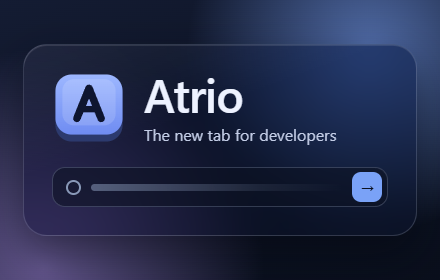
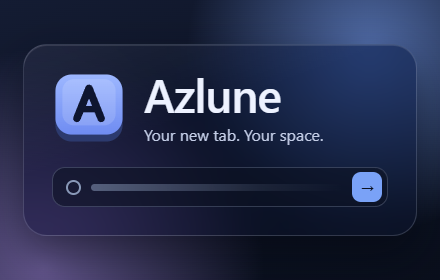
chore(store): update the Azlune listing and promotional assets
Store guide: the item is "Azlune — Developer New Tab" (the manifest's
name), with the new summaries (126 characters each), detailed
descriptions in English and Italian opening with the tagline, the
single purpose and data usage texts under the new name, and the
package azlune-3.3.0.zip. The name section now records the search for
Azlune of 29 October 2026 (no AZLUNE mark nor any on its roots in
TMview, no Store extension or web use, domains without DNS records),
asks for a professional check, and says why Atrio was dropped. A new
last section lists what to update once the GitHub repository is
renamed; until then every link keeps the current address.

Promo tile: "Azlune" with "Your new tab. Your space.", same keycap logo
and colors, rendered again at 440 x 280 (24-bit PNG). The five
screenshots show no product name and stay as they are.

Changed region(s): [[0.3841, 0.2571, 0.65, 0.4286], [0.325, 0.4571, 0.7682, 0.5143]]

diff --git a/scripts/promo-tile.html b/scripts/promo-tile.html
@@ -1,11 +1,11 @@
 <!doctype html>
 <!-- The Chrome Web Store's small promo tile, 440 × 280: npm run screenshots -- --store renders it into
-     docs/store/<version>/. Only Atrio's own icon, name and colors (the Tokyo Night theme), nothing of third
+     docs/store/<version>/. Only Azlune's own icon, name and colors (the Tokyo Night theme), nothing of third
      parties. -->
 <html lang="en">
   <head>
     <meta charset="utf-8" />
-    <title>Atrio promo tile</title>
+    <title>Azlune promo tile</title>
     <style>
       html,
       body {
@@ -104,8 +104,8 @@
       <div class="brand">
         <img src="../assets/icons/icon.svg" alt="" />
         <div>
-          <h1>Atrio</h1>
-          <p>The new tab for developers</p>
+          <h1>Azlune</h1>
+          <p>Your new tab. Your space.</p>
         </div>
       </div>
       <div class="search" aria-hidden="true">

diff --git a/docs/CHROME_WEB_STORE_LISTING.md b/docs/CHROME_WEB_STORE_LISTING.md
@@ -1,14 +1,14 @@
 # Chrome Web Store submission
 
-What to upload and what to fill in the Developer Dashboard for Atrio 3.3.0. Texts in quotes are ready to paste. Items
-marked **Decide** or **Check** cannot be settled from the code and are the maintainer's call; the
-[checklist](#dashboard-checklist) at the end lists them in order.
+What to upload and what to fill in the Developer Dashboard for Azlune 3.3.0, the first version under that name (it was
+called Atrio before). Texts in quotes are ready to paste. Items marked **Decide** or **Check** cannot be settled from
+the code and are the maintainer's call; the [checklist](#dashboard-checklist) at the end lists them in order.
 
 ## Package
 
 - Version `3.3.0` (`manifest.json`, `package.json`). It must be higher than any version already uploaded to the item:
   **Check** the Dashboard's package history (3.2.0 may or may not have been uploaded; this repository cannot tell).
-- Build it with `npm run package`. It writes `atrio-3.3.0.zip` at the root of the repository (`*.zip` is ignored by
+- Build it with `npm run package`. It writes `azlune-3.3.0.zip` at the root of the repository (`*.zip` is ignored by
   git), then reads it back, extracts it to a new temporary folder and checks it:
   - only the runtime files: `manifest.json`, `index.html`, `style.css`, `background.js`, `LICENSE`, `js/`, `assets/`
     (the six wallpapers and the icons) and `_locales/`, with `manifest.json` at the root of the ZIP;
@@ -26,12 +26,13 @@ marked **Decide** or **Check** cannot be settled from the code and are the maint
 
 ## Store listing
 
-- **Name:** Atrio (from the manifest).
+- **Name:** "Azlune — Developer New Tab", from the manifest (26 characters; `short_name` "Azlune" where space is
+  short).
 - **Summary:** the localized `appDescription` in `_locales/` (limit 132 characters):
-  - English (129): "A keyboard-first new tab for developers: smart search, quick links, focus timer and tasks. Local data, opt-in
-    online suggestions."
-  - Italian (131): "Nuova scheda per developer: ricerca intelligente, collegamenti, timer focus e attività. Dati locali,
-    suggerimenti online opzionali."
+  - English (126): "A keyboard-first new tab for developers: smart search, links, local dev tools, focus timer,
+    themes. Opt-in online suggestions."
+  - Italian (126): "Nuova scheda per developer: ricerca intelligente, collegamenti, strumenti locali, timer e temi.
+    Suggerimenti online opzionali."
 - **Category:** Developer Tools.
 - **Languages:** English (default) and Italian.
 - **Store icon:** `assets/icons/icon-128.png` (also in the package).
@@ -44,14 +45,17 @@ marked **Decide** or **Check** cannot be settled from the code and are the maint
 
   They come from the page itself with demo data (`npm run screenshots -- --store`): a made-up token, sample tasks,
   the default links, shown as initials because site icons need the installed extension. The Google apps launcher is
-  turned off in them, through its own setting, so they show Atrio's own features.
+  turned off in them, through its own setting, so they show Azlune's own features. No screenshot shows the product's
+  name, so the set made before the rename stays accurate.
 
 - **Small promo tile** (440 × 280, optional): `docs/store/3.3.0/promo-440x280.png`, a 24-bit PNG without alpha, made
-  from Atrio's own icon, name and colors (`scripts/promo-tile.html`). Without one, the Store shows the item without its
-  tile; there is no marquee image (1400 × 560, also optional).
+  from Azlune's own icon, name, tagline ("Your new tab. Your space.") and colors (`scripts/promo-tile.html`).
+  Without one, the Store shows the item without its tile; there is no marquee image (1400 × 560, also optional).
 - **Detailed description** (English):
 
-  > Atrio replaces the new tab page with a calm, keyboard-first workspace for developers.
+  > Your new tab. Your space.
+  >
+  > Azlune replaces the new tab page with a calm, keyboard-first workspace for developers.
   >
   > TWO MODES, TWO STYLES
   >
@@ -86,16 +90,18 @@ marked **Decide** or **Check** cannot be settled from the code and are the maint
   >
   > PRIVACY
   >
-  > Your data stays in your browser: Atrio has no server, no account, no analytics and no ads. Online search
+  > Your data stays in your browser: Azlune has no server, no account, no analytics and no ads. Online search
   > suggestions are off by default; if you turn them on, what you type in the search box is sent to Google or
   > DuckDuckGo, whichever is your search engine, as your browser's address bar does. The searches you run and the links
   > you open go to the sites you chose.
   >
-  > Atrio is not affiliated with Google.
+  > Azlune is not affiliated with Google.
 
 - **Detailed description** (Italian):
 
-  > Atrio sostituisce la nuova scheda con uno spazio di lavoro tranquillo per sviluppatori, pensato per la tastiera.
+  > La tua nuova scheda. Il tuo spazio.
+  >
+  > Azlune sostituisce la nuova scheda con uno spazio di lavoro tranquillo per sviluppatori, pensato per la tastiera.
   >
   > DUE MODALITÀ, DUE STILI
   >
@@ -133,21 +139,21 @@ marked **Decide** or **Check** cannot be settled from the code and are the maint
   >
   > PRIVACY
   >
-  > I tuoi dati restano nel browser: Atrio non ha server, account, statistiche d'uso o pubblicità. I suggerimenti di
+  > I tuoi dati restano nel browser: Azlune non ha server, account, statistiche d'uso o pubblicità. I suggerimenti di
   > ricerca online sono spenti in partenza; se li attivi, quello che scrivi nella casella di ricerca viene inviato a
   > Google o DuckDuckGo, a seconda del motore scelto, come fa la barra degli indirizzi. Le ricerche che fai e i
   > collegamenti che apri vanno ai siti che hai scelto.
   >
-  > Atrio non è affiliato a Google.
+  > Azlune non è affiliato a Google.
 
   Plain text, as the Store shows it: the capitalized lines are headings. The Google apps launcher is left out of both
-  texts, which describe Atrio's own features.
+  texts, which describe Azlune's own features.
 
 ## Privacy practices
 
 - **Single purpose:**
 
-  > "Atrio replaces the new tab page with a workspace for developers: web search through the browser's default search
+  > "Azlune replaces the new tab page with a workspace for developers: web search through the browser's default search
   > provider, quick links, developer tools in the search box, a focus timer, tasks and notes."
 
 - **Permission justifications** (the four permissions of the manifest, and the two optional hosts):
@@ -168,7 +174,7 @@ marked **Decide** or **Check** cannot be settled from the code and are the maint
   | ------------------------------------------------------------------------------------------------------------------------------------------ | --------------------------------------------------------------------------------------------------------------------------------------------------------------------------------------------------------- |
   | Settings, the optional name for the greeting, links, prefixes, tasks, notes, custom CSS, timer statistics, recent searches, own wallpapers | Stored in the browser (`localStorage`, IndexedDB) on the device, as `PRIVACY.md` details. Never sent anywhere; the developer receives nothing.                                                            |
   | Text typed in the search box, with online suggestions on                                                                                   | Off by default, behind an optional host permission. When on, sent as it is typed to `suggestqueries.google.com` or `duckduckgo.com` (the engine chosen), without cookies or referrer, to get suggestions. |
-  | A search run with Enter, a link opened                                                                                                     | A navigation the user starts: to Chrome's default provider (through `chrome.search.query`), or to the engine, prefix or link chosen. Atrio receives nothing.                                              |
+  | A search run with Enter, a link opened                                                                                                     | A navigation the user starts: to Chrome's default provider (through `chrome.search.query`), or to the engine, prefix or link chosen. Azlune receives nothing.                                             |
   | Site icons of the links                                                                                                                    | Read from Chrome's local favicon cache (`favicon` permission); no request.                                                                                                                                |
   | Text given to the local tools (JWT, JSON, Base64…)                                                                                         | Processed in the page; not sent, and not kept among the recent searches.                                                                                                                                  |
 
@@ -177,31 +183,26 @@ marked **Decide** or **Check** cannot be settled from the code and are the maint
     closest category is **User activity** (it covers keystrokes); declaring it is the conservative choice;
   - the other categories (personally identifiable information, health, financial, authentication, personal
     communications, location, web history, website content) match nothing observed: the name stays on the device,
-    and Atrio reads no history, cookies or page content.
+    and Azlune reads no history, cookies or page content.
 
   The three certifications hold either way: no selling or transfer outside the approved uses, no use unrelated to the
   single purpose, no use for creditworthiness or lending.
 
 - **Privacy policy URL:** `https://github.com/gurmilans-dev/atrio/blob/main/PRIVACY.md` (answered 200 to a request
-  without login on 28 October 2026). It describes 3.3.0 as it is: no change was needed for this version.
+  without login on 28 October 2026). It describes 3.3.0 as it is, under the new name. Once the repository is renamed
+  to `gurmilans-dev/azlune` (see the last section), put the new address in the Dashboard after checking that it opens.
 
 ## Assets and trademarks
 
-- **Name.** Searched on 28 October 2026 in TMview (which gathers the EUIPO, WIPO, USPTO, UIBM and most national
-  offices) and, for the US record, in the USPTO's TSDR. Live ATRIO word marks exist in class 42 (software and online
-  services) and class 9:
-  - US registration 6092218, 2U, Inc., class 42, registered 30 June 2020, live: an online service for colleges and
-    universities to offer distance learning (from TSDR);
-  - international registration 1506350, 2U, LLC, class 42, until 20 November 2029, designating among others the
-    European Union, Italy, Canada, India and Brazil;
-  - Canada TMA1108258 (2U, 42), TMA1205828 (Isto Inc., 9/41/42), TMA910764 (Gary Jonas Computing, 9/42); Italy
-    ÀTRIO 2016000072394 (Atrio Studio S.r.l., 16/35/38/42); India 2380474 and Mexico 1298809, 1298811, 1298812,
-    1298813 (PAR Technology, 9 and 42); Brazil ÁTRIO 924510307 (Agende Tecnologias, 9).
+- **Name.** Azlune, adopted on 29 October 2026 in place of Atrio. Searched that day in TMview (which gathers the
+  EUIPO, WIPO, USPTO, UIBM and most national offices): no AZLUNE mark, and none beginning with its roots AZLUN or AZLU,
+  in any class; no extension of that name in the Chrome Web Store and no use found on the web; azlune.com, .dev and .app
+  had no DNS records (a hint, not a registrar's answer). None of this guarantees availability: **Check** with a
+  trademark professional in the markets of the launch, and register the domain and accounts you want.
 
-  Only the US record's services were read (TMview's detail pages refused automated access); those differ from a
-  browser's new tab page, but the classes overlap. No conflict is documented; **Check** with a trademark professional
-  before the worldwide launch, starting with the US and the EU. The Chrome Web Store lists one extension with "Atrio"
-  in its name (Opera Profile Monitor - Atrio), for a different purpose.
+  The former name was dropped because live ATRIO word marks exist in classes 42 and 9: US registration 6092218 (2U,
+  Inc., an online distance-learning service, from the USPTO's TSDR); international registration 1506350 (2U, LLC,
+  designating among others the European Union and Italy); others in Canada, Italy, India, Mexico and Brazil.
 
 - **Logo** (`assets/icons/icon.svg`, rendered to the PNG icons): an original drawing, a blue keycap with an "A",
   readable at 16 px on light and dark backgrounds. A key with a letter is a common motif, so its distinctiveness is
@@ -210,23 +211,23 @@ marked **Decide** or **Check** cannot be settled from the code and are the maint
 - **Wallpapers** (`assets/city.webp`, `assets/workstation.webp`): the author's own images, as stated by the
   maintainer. **Check:** keep the source files, and how they were made, as a record.
 - **Wallpapers added in 3.3.0** (`assets/deep-space.webp`, `warm-sand.webp`, `sunrise-lake.webp`,
-  `liquid-glass.webp`): generated with AI in ChatGPT for Atrio on 28 October 2026, and shipped as delivered, 1600 × 900
-  WebP files. Their provenance note is kept as delivered in [IMAGE_PROVENANCE.txt](IMAGE_PROVENANCE.txt): generated
-  for this request, not copied from a stock-photo source; no brands, logos or third-party characters intentionally
-  included; use and rights governed by the applicable OpenAI terms and laws; provenance information, not a legal
-  guarantee. The PNG exports of the same images carry signed C2PA Content Credentials (created with ChatGPT,
-  `gpt-image`, digital source type `trainedAlgorithmicMedia`, claim signed by OpenAI); the WebP files carry no
-  metadata. No license or clearance beyond that is claimed for them. **Check:** keep the PNG files, with their
-  credentials, outside the repository as a record (they are not part of the package), and that the OpenAI terms allow
-  this use.
+  `liquid-glass.webp`): generated with AI in ChatGPT for this project (then called Atrio) on 28 October 2026, and
+  shipped as delivered, 1600 × 900 WebP files. Their provenance note is kept as delivered in
+  [IMAGE_PROVENANCE.txt](IMAGE_PROVENANCE.txt): generated for this request, not copied from a stock-photo source; no
+  brands, logos or third-party characters intentionally included; use and rights governed by the applicable OpenAI
+  terms and laws; provenance information, not a legal guarantee. The PNG exports of the same images carry signed C2PA
+  Content Credentials (created with ChatGPT, `gpt-image`, digital source type `trainedAlgorithmicMedia`, claim signed
+  by OpenAI); the WebP files carry no metadata. No license or clearance beyond that is claimed for them. **Check:**
+  keep the PNG files, with their credentials, outside the repository as a record (they are not part of the package),
+  and that the OpenAI terms allow this use.
 - **Google apps launcher** (`js/google-apps.js`): since 3.3.0 each service is shown with a generic symbol of what it
-  does (an envelope for Gmail, a folder for Drive, a grid for Sheets…), drawn in Atrio's accent color like the links'
+  does (an envelope for Gmail, a folder for Drive, a grid for Sheets…), drawn in Azlune's accent color like the links'
   initials: none of Google's product icons, shapes or colors. The services keep their names, in text, and their
-  addresses, to say where each tile leads. The README and the description say that Atrio is not affiliated with
+  addresses, to say where each tile leads. The README and the description say that Azlune is not affiliated with
   Google; the screenshots and the promo tile do not show the launcher. **Check**, if in doubt, against
   [Google's brand guidance](https://about.google/brand-resource-center/guidance/) and the Store's
   [impersonation and intellectual property policy](https://developer.chrome.com/docs/webstore/program-policies/impersonation-and-intellectual-property).
-  Atrio's own name and logo do not resemble Google's.
+  Azlune's own name and logo do not resemble Google's.
 
 ## Account
 
@@ -234,13 +235,13 @@ marked **Decide** or **Check** cannot be settled from the code and are the maint
 
 ## Dashboard checklist
 
-1. Decide on the name for a worldwide launch after the trademark check above (live ATRIO marks in classes 9 and 42).
+1. Confirm the name Azlune with a trademark professional for the markets of the launch (see Name above).
 2. Before uploading, load the extracted package unpacked in a normal Chrome profile, for what the automated checks
    cannot do: turn online suggestions on (accept, then deny, Chrome's permission prompt) and off (the permission
    goes); let a short focus session end and see the system notification; search with a default engine other than
    Google.
 3. Open the item (or create it) and check the package history: no version 3.3.0 or higher already uploaded.
-4. Upload `atrio-3.3.0.zip`, built by `npm run package`; compare its SHA-256 with the one the script printed.
+4. Upload `azlune-3.3.0.zip`, built by `npm run package`; compare its SHA-256 with the one the script printed.
 5. Store listing: summary (from the package), detailed description in English and Italian (above), category
    Developer Tools, languages, store icon, the five screenshots in order, the promo tile.
 6. Privacy practices: single purpose, the four permission justifications and the optional hosts, remote code "No",
@@ -248,3 +249,16 @@ marked **Decide** or **Check** cannot be settled from the code and are the maint
 7. Distribution: visibility and regions, as you prefer.
 8. Optionally, review the launcher's use of Google's product names (its icons are generic since 3.3.0).
 9. Submit for review. When it is published, put the date next to 3.3.0 in `CHANGELOG.md`.
+
+## After renaming the GitHub repository
+
+The repository is still `gurmilans-dev/atrio`, and every link points there. GitHub redirects the old address after a
+rename, but these should then name `gurmilans-dev/azlune`:
+
+1. On GitHub: Settings → General → Repository name → `azlune`.
+2. Locally: `git remote set-url origin https://github.com/gurmilans-dev/azlune.git`, then `git fetch` to check it.
+3. Open `https://github.com/gurmilans-dev/atrio` and check that it lands on the new address.
+4. Update, in one commit: `homepage_url` in `manifest.json`; `repository.url` in `package.json`; the CI badge (two
+   URLs) in `README.md`; the two issue links in `PRIVACY.md`; the privacy policy URL in this guide. Rebuild the package.
+5. Open `https://github.com/gurmilans-dev/azlune/blob/main/PRIVACY.md` signed out, and put it in the Dashboard's privacy
+   policy field.
